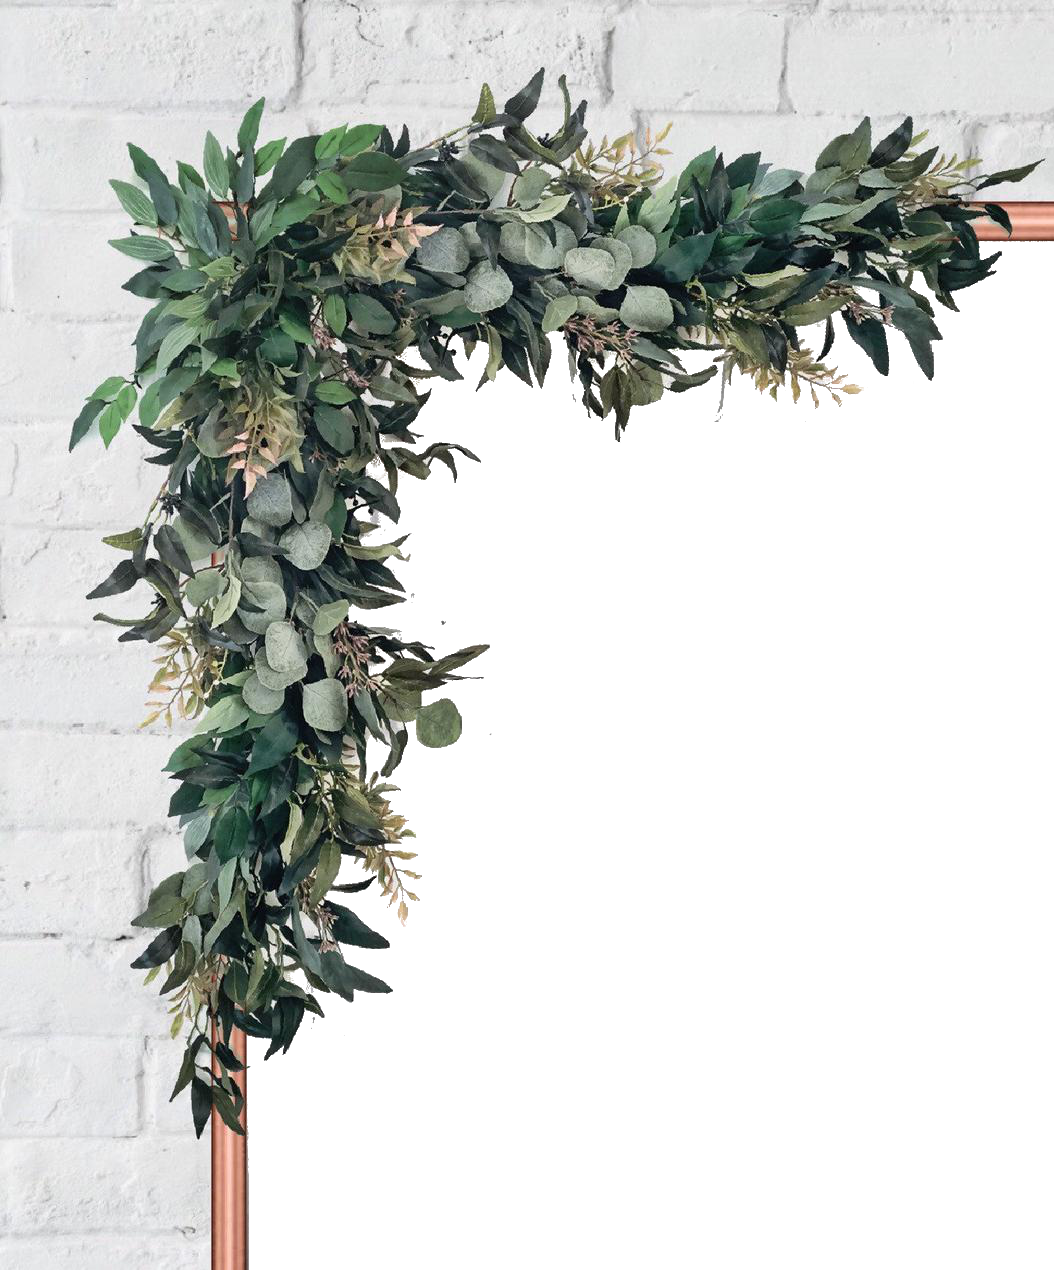
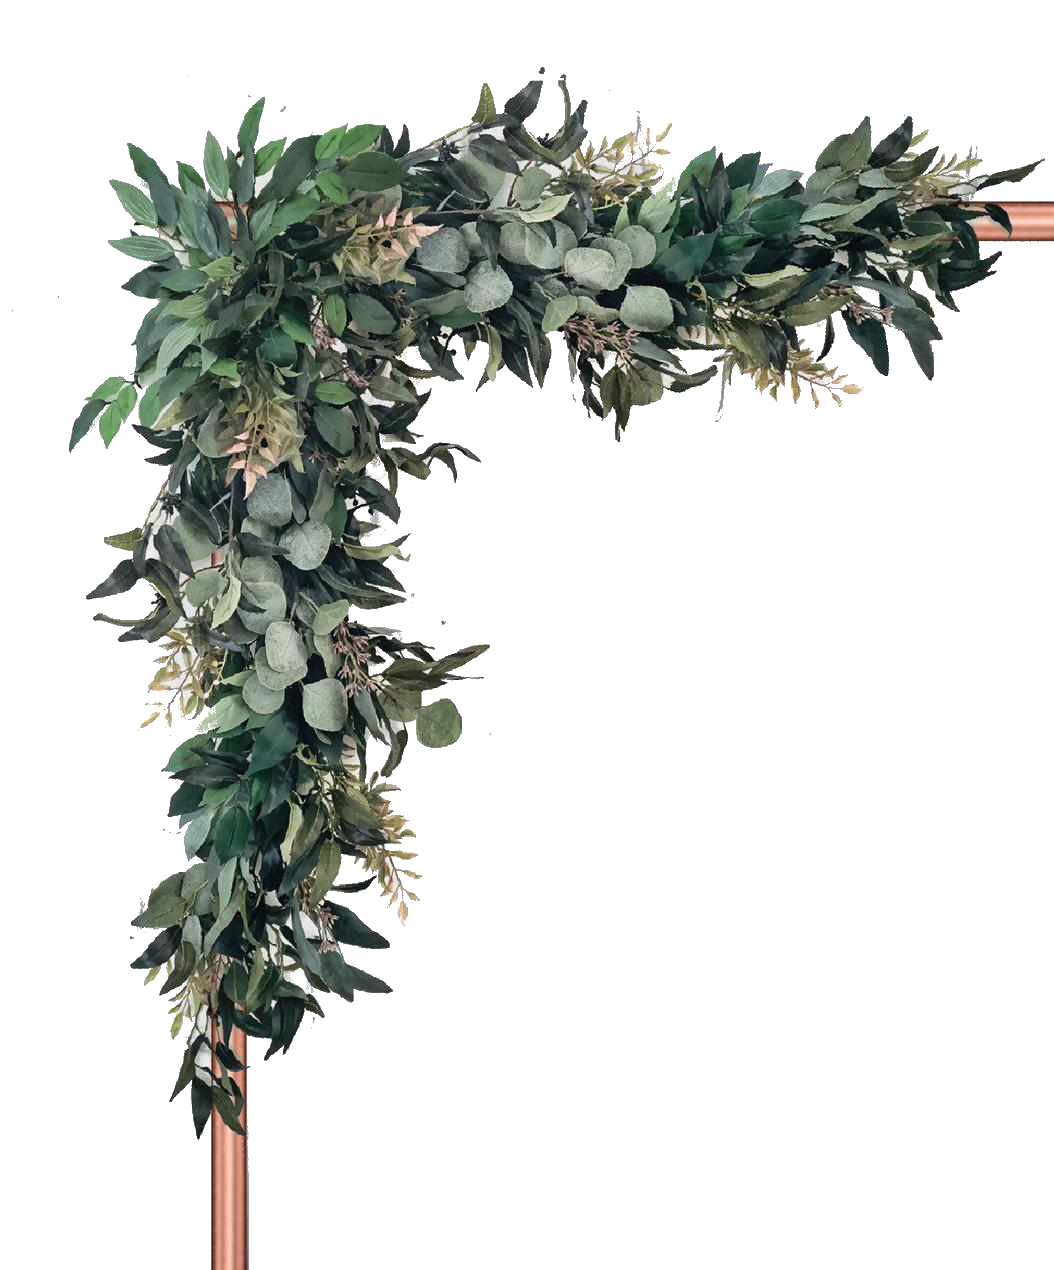
a bit better

Changed region(s): [[0.0, 0.0, 1.0, 1.0]]

diff --git a/static-demos/simple-demo/simple.html b/static-demos/simple-demo/simple.html
@@ -8,29 +8,30 @@
      that creates rooms within your own domain. -->
     <script src="../shared-assets/create-demo-room.js"></script>
     <style>
-      /* body {
-        background-image: url('wedding_background.png');
+      body {
+        background-image: url('wedding_background.jpg');
         background-size: cover;
-      } */
+      }
 
       .arch {
         position: fixed;
-        height: 1000;
+        height: 700;
         max-height: 100%;
         pointer-events: none;
       }
       #topper {
-        width: 100%;
+        width: 80%;
         top: 0;
+        left: 10%;
         z-index: 1;
       }
       #rightpipe {
-        top: 900;
+        top: 680;
         right: 0;
         z-index: 1;
       }
       #leftpipe {
-        top: 900;
+        top: 680;
         left: 0;
         z-index: 1;
       }
@@ -46,12 +47,11 @@
       }
 
       #giphy {
-        position: absolute;
-        float: right;
+        position: fixed;
         width: 10%;
-        top: 10px;
-        right: 5px;
-        z-index: 3;
+        top: 5px;
+        right: 15%;
+        z-index: 1;
       }
     </style>
   </head>
@@ -96,7 +96,8 @@
         // this:
         //
         // TODO: Update with a room of your chosing
-        room = { url: 'https://ruthless.staging.daily.co/the_chapel' };
+        // room = { url: 'https://ruthless.staging.daily.co/the_chapel' };
+        room = { url: 'https://playground.staging.daily.co/water-cooler' };
         //
         // room = await createMtgRoom();
 
